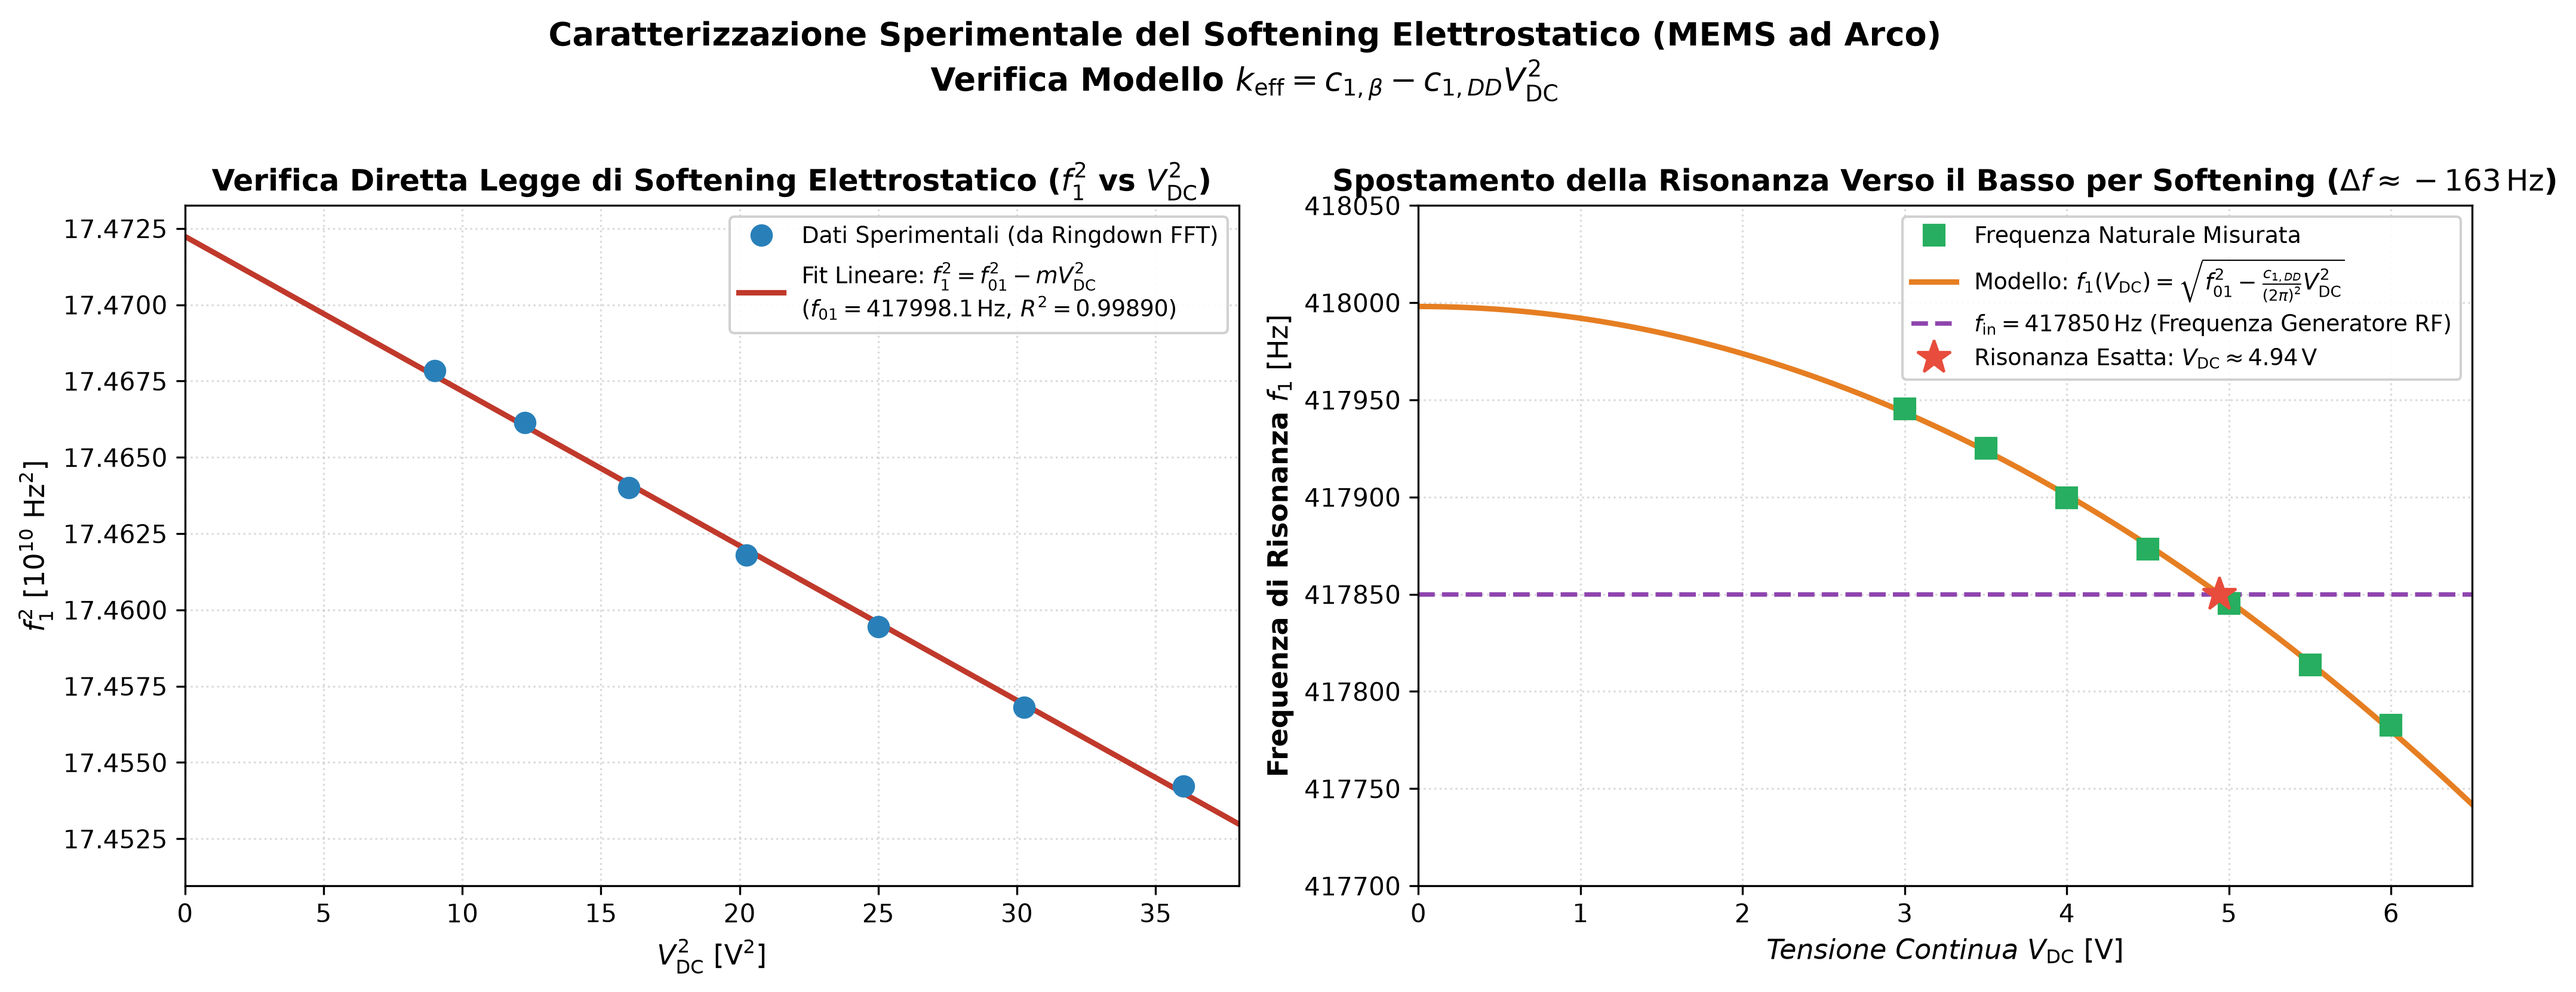
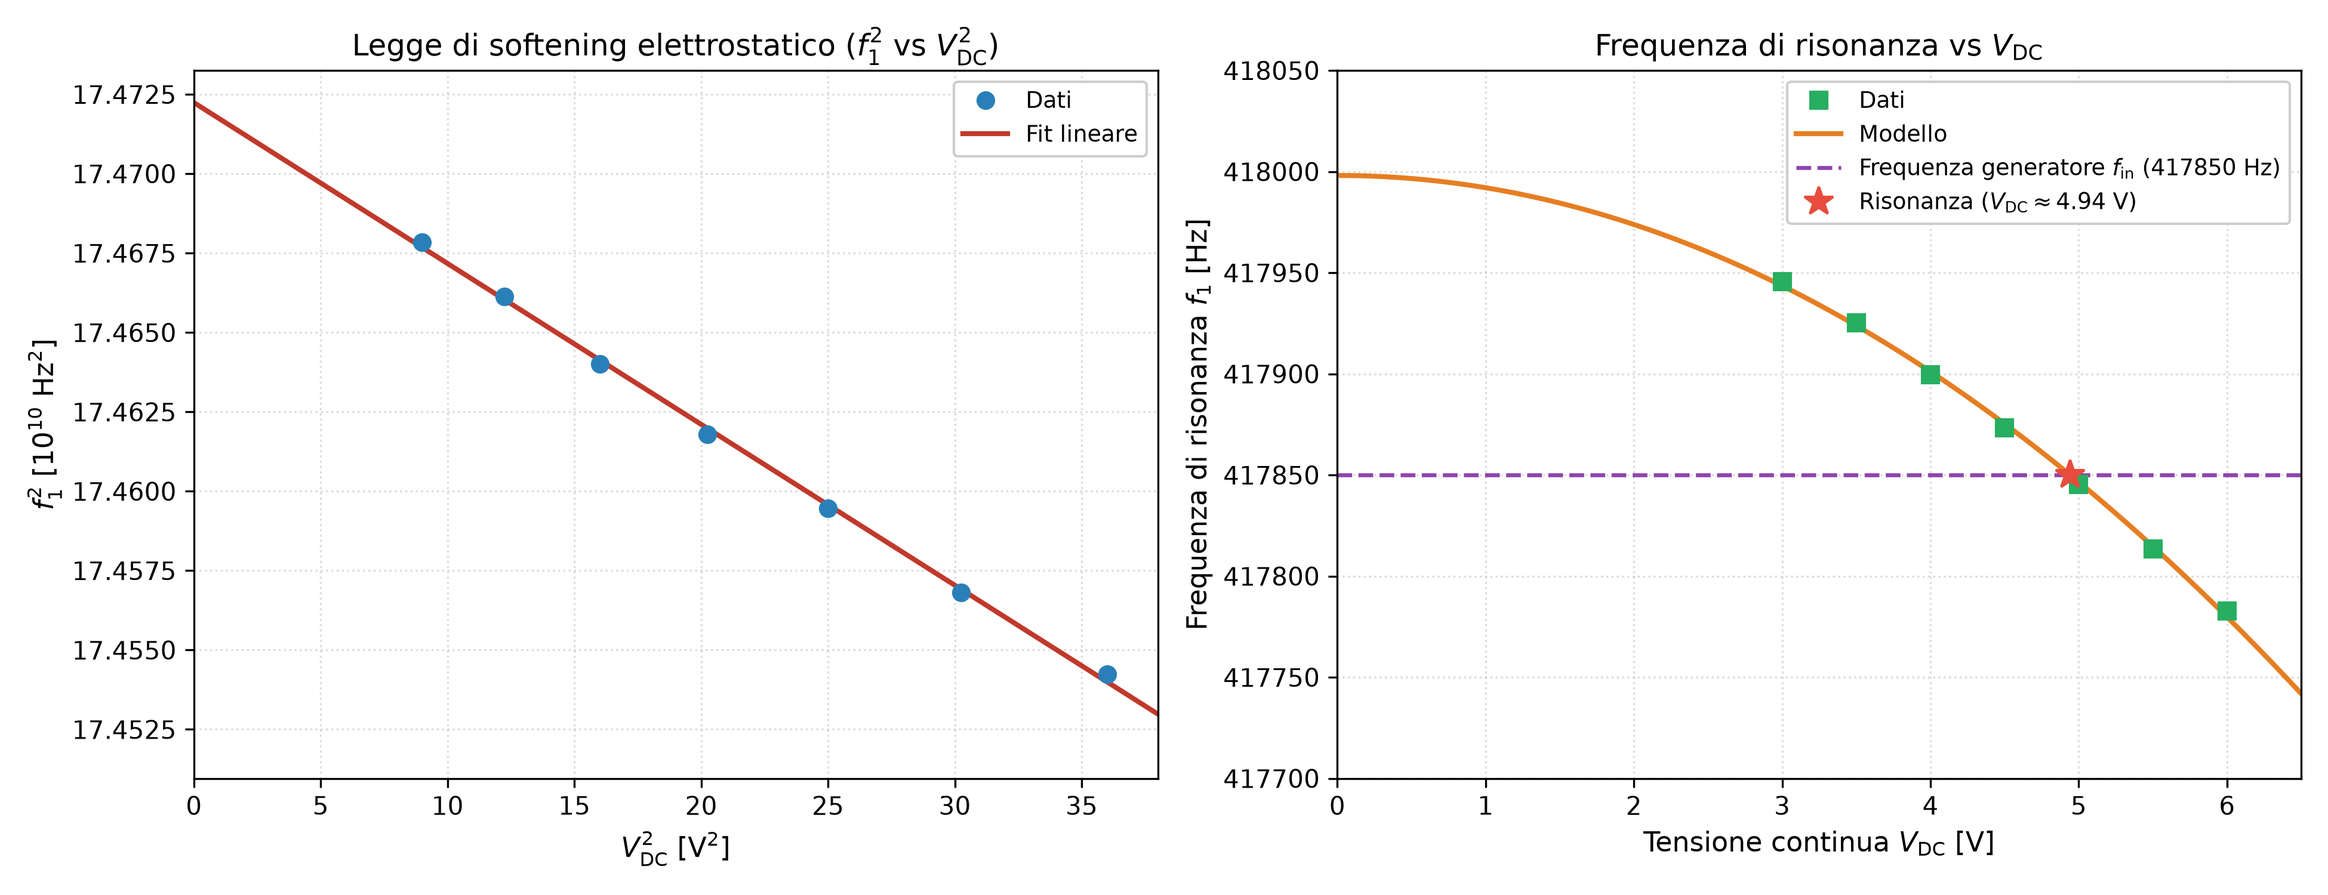
Aggiorna softening_legge_quadratica con stile minimalista e sentence case

diff --git a/Frequenza_Vdc/analizza_softening_vdc.py b/Frequenza_Vdc/analizza_softening_vdc.py
@@ -245,57 +245,53 @@ def main():
     # -------------------------------------------------------------------------
     # GRAFICO 1: LEGGE DI SOFTENING ELETTROSTATICO (f_res^2 vs Vdc^2 e f_res vs Vdc)
     # -------------------------------------------------------------------------
-    fig1, (ax1, ax2) = plt.subplots(1, 2, figsize=(14, 5.5))
+    fig1, (ax1, ax2) = plt.subplots(1, 2, figsize=(13, 5))
 
     # Pannello A: f_res^2 vs Vdc^2 (Teoricamente una retta esatta)
     v2_dense = np.linspace(0, 40, 200)
     f2_dense_pred = f01_sq - m_slope * v2_dense
 
-    ax1.plot(vdc2_arr, f_res2_arr * 1e-10, 'o', color='#2980b9', markersize=8,
-             label='Dati Sperimentali (da Ringdown FFT)', zorder=5)
-    ax1.plot(v2_dense, f2_dense_pred * 1e-10, '-', color='#c0392b', linewidth=2.2,
-             label=rf'Fit Lineare: $f_1^2 = f_{{01}}^2 - m V_{{\mathrm{{DC}}}}^2$' + '\n' +
-                   rf'($f_{{01}} = {f01_mech:.1f}\,\mathrm{{Hz}},\,R^2 = {r2_soft:.5f}$)')
+    ax1.plot(vdc2_arr, f_res2_arr * 1e-10, 'o', color='#2980b9', markersize=6.5,
+             label='Dati', zorder=5)
+    ax1.plot(v2_dense, f2_dense_pred * 1e-10, '-', color='#c0392b', linewidth=2.0,
+             label='Fit lineare')
 
-    ax1.set_xlabel(r'$V_{\mathrm{DC}}^2\ [\mathrm{V}^2]$', fontweight='bold')
-    ax1.set_ylabel(r'$f_1^2\ [10^{10}\ \mathrm{Hz}^2]$', fontweight='bold')
-    ax1.set_title(r'Verifica Diretta Legge di Softening Elettrostatico ($f_1^2$ vs $V_{\mathrm{DC}}^2$)', fontweight='bold')
+    ax1.set_xlabel(r'$V_{\mathrm{DC}}^2$ [$\mathrm{V}^2$]')
+    ax1.set_ylabel(r'$f_1^2$ [$10^{10}\ \mathrm{Hz}^2$]')
+    ax1.set_title(r'Legge di softening elettrostatico ($f_1^2$ vs $V_{\mathrm{DC}}^2$)')
     ax1.grid(True)
-    ax1.legend(framealpha=0.9)
+    ax1.legend(framealpha=0.95)
     ax1.set_xlim([0, 38])
 
     # Pannello B: f_res vs Vdc (Curva parabolica reale)
     v_dense = np.linspace(0, 6.5, 200)
     f_dense_pred = np.sqrt(np.maximum(0, f01_sq - m_slope * (v_dense**2)))
 
-    ax2.plot(vdc_arr, f_res_arr, 's', color='#27ae60', markersize=8,
-             label='Frequenza Naturale Misurata', zorder=5)
-    ax2.plot(v_dense, f_dense_pred, '-', color='#e67e22', linewidth=2.2,
-             label=rf'Modello: $f_1(V_{{\mathrm{{DC}}}}) = \sqrt{{f_{{01}}^2 - \frac{{c_{{1,DD}}}}{{(2\pi)^2}} V_{{\mathrm{{DC}}}}^2}}$')
+    ax2.plot(vdc_arr, f_res_arr, 's', color='#27ae60', markersize=6.5,
+             label='Dati', zorder=5)
+    ax2.plot(v_dense, f_dense_pred, '-', color='#e67e22', linewidth=2.0,
+             label='Modello')
 
     # Evidenzia la frequenza di eccitazione f_in usata dal generatore
-    ax2.axhline(F_IN, color='#8e44ad', linestyle='--', linewidth=1.8,
-                label=rf'$f_{{\mathrm{{in}}}} = {F_IN:.0f}\,\mathrm{{Hz}}$ (Frequenza Generatore RF)')
+    ax2.axhline(F_IN, color='#8e44ad', linestyle='--', linewidth=1.6,
+                label=rf'Frequenza generatore $f_{{\mathrm{{in}}}}$ ({F_IN:.0f} Hz)')
 
     # Trova il punto di incrocio esatto (dove f_res(Vdc) == f_in)
     vdc_cross = np.sqrt((f01_sq - F_IN**2) / m_slope)
-    ax2.plot(vdc_cross, F_IN, '*', color='#e74c3c', markersize=14, zorder=6,
-             label=rf'Risonanza Esatta: $V_{{\mathrm{{DC}}}} \approx {vdc_cross:.2f}\,\mathrm{{V}}$')
+    ax2.plot(vdc_cross, F_IN, '*', color='#e74c3c', markersize=12, zorder=6,
+             label=rf'Risonanza ($V_{{\mathrm{{DC}}}} \approx {vdc_cross:.2f}$ V)')
 
-    ax2.set_xlabel(r'$Tensione\ Continua\ V_{\mathrm{DC}}\ [\mathrm{V}]$', fontweight='bold')
-    ax2.set_ylabel(r'Frequenza di Risonanza $f_1\ [\mathrm{Hz}]$', fontweight='bold')
-    ax2.set_title(r'Spostamento della Risonanza Verso il Basso per Softening ($\Delta f \approx -163\,\mathrm{Hz}$)', fontweight='bold')
+    ax2.set_xlabel(r'Tensione continua $V_{\mathrm{DC}}$ [V]')
+    ax2.set_ylabel(r'Frequenza di risonanza $f_1$ [Hz]')
+    ax2.set_title(r'Frequenza di risonanza vs $V_{\mathrm{DC}}$')
     ax2.grid(True)
-    ax2.legend(framealpha=0.9)
+    ax2.legend(framealpha=0.95)
     ax2.set_xlim([0, 6.5])
     ax2.set_ylim([417700, 418050])
 
-    fig1.suptitle('Caratterizzazione Sperimentale del Softening Elettrostatico (MEMS ad Arco)\n'
-                  rf'Verifica Modello $k_{{\mathrm{{eff}}}} = c_{{1,\beta}} - c_{{1,DD}} V_{{\mathrm{{DC}}}}^2$',
-                  fontsize=13, fontweight='bold', y=1.00)
     plt.tight_layout()
     fig1_path = os.path.join(base_dir, 'softening_legge_quadratica.png')
-    plt.savefig(fig1_path, dpi=300, bbox_inches='tight')
+    plt.savefig(fig1_path, dpi=300)
     plt.close()
     print(f"Grafico 1 salvato: {fig1_path}")
 
